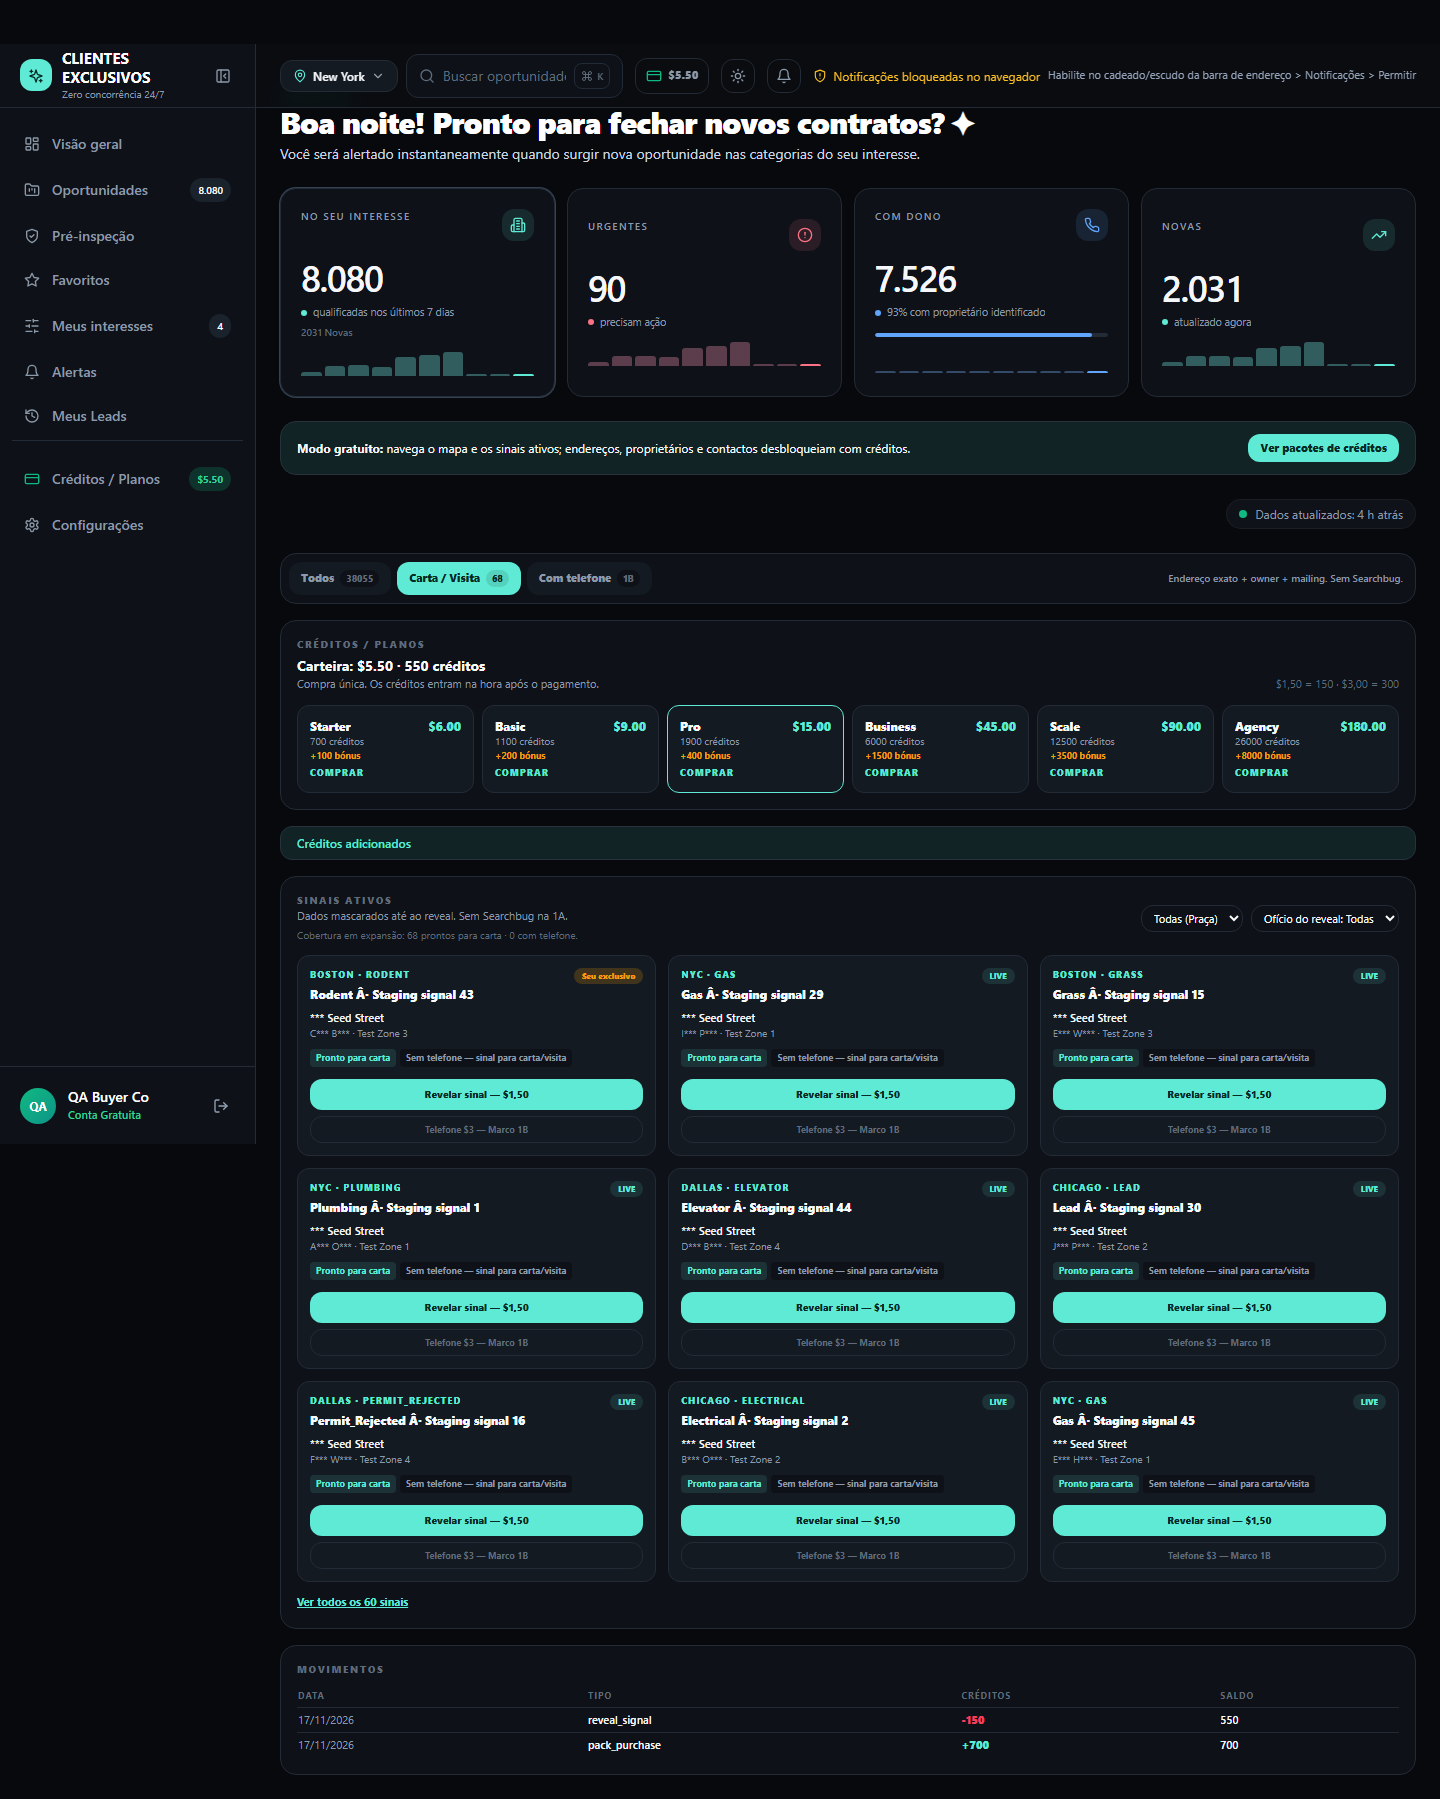
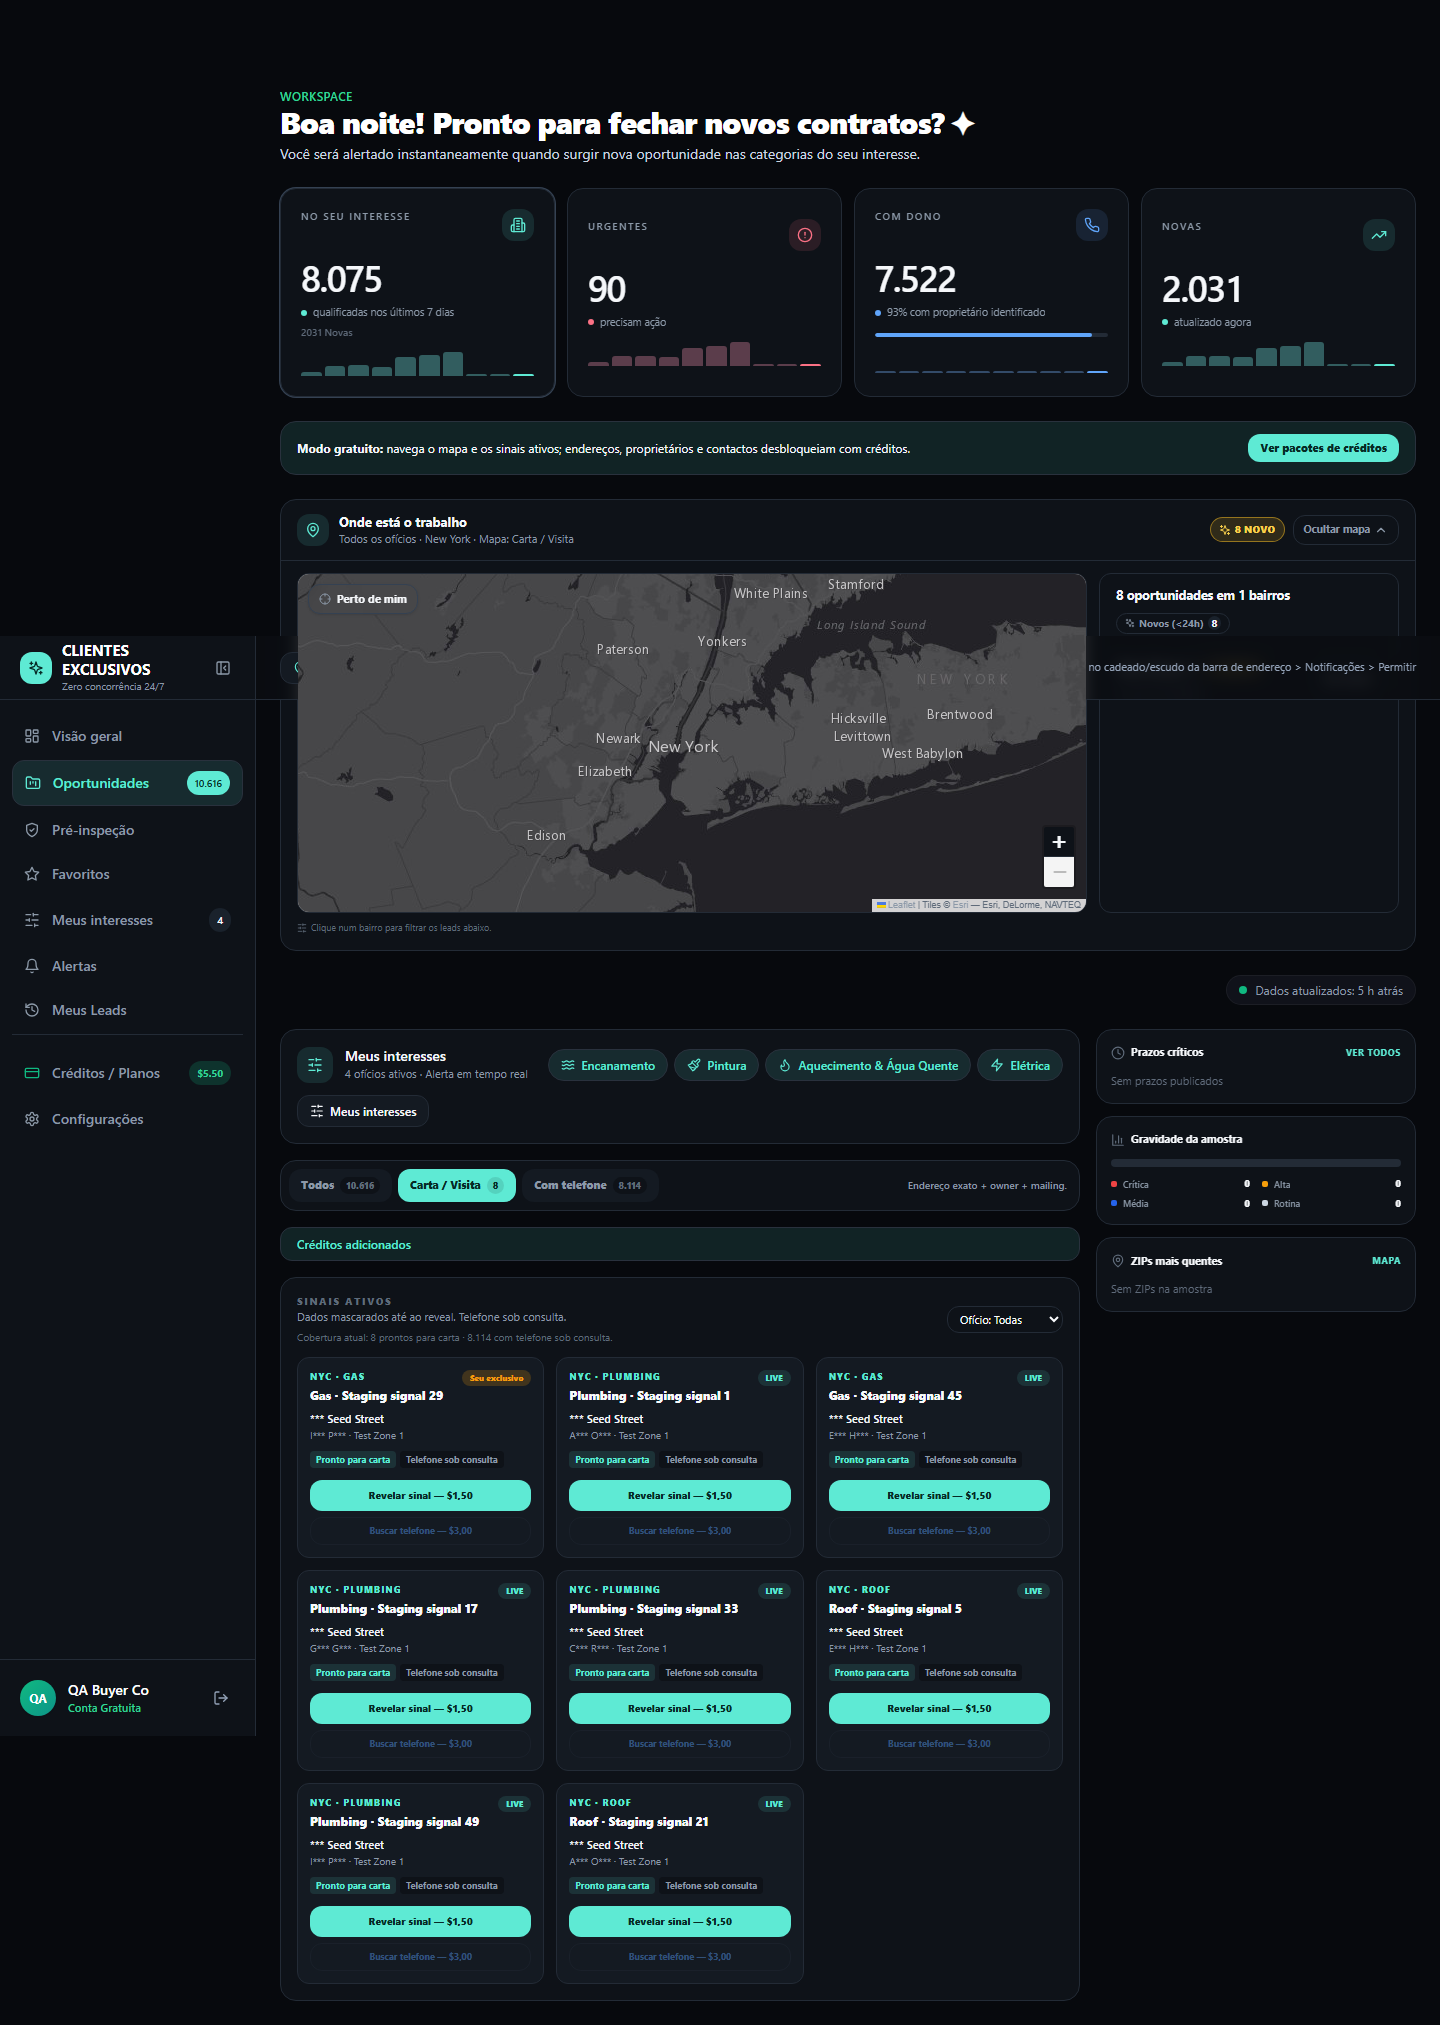
docs(marco-1a): record on-demand phone and wallet modal audit

diff --git a/reports/marco-1a/README.md b/reports/marco-1a/README.md
@@ -17,28 +17,28 @@
 - Reveal de sinal **$1,50** com endereço exato, owner oficial e `mailing_address`; **sem Searchbug**.
 - Exclusividade **7 dias por ofício**; o mesmo endereço pode ser vendido a outros ofícios.
 - Paywall: “Revelar” com saldo insuficiente (402) abre uma **modal elegante sobre o dashboard** (pack $6–$180, carteira atual e valor necessário). A compra dentro da modal credita a carteira e **desbloqueia o lead automaticamente**, sem sair do painel.
-- Telefone **$3** bloqueado na 1A (Marco 1B).
+- Telefone **$3** on-demand (Searchbug) implementado no fluxo de créditos: a aba lista elegíveis e a consulta só acontece após confirmação de saldo. Em staging, sem chave Searchbug, a consulta devolve “indisponível” sem cobrar.
 - `/pt/credits` deixou de ser página autónoma: redireciona para `/{locale}/dashboard?tab=credits`.
 - Gate por token/password no staging (`STAGING_GATE=1` + `STAGING_ACCESS_TOKEN`), cookie httpOnly.
 - Seed sintético: **50 leads** nas 4 praças + contas `qa-buyer+staging@magicleads.app` / `qa-free+staging@magicleads.app` (password `dev-demo-only`).
-- Nenhum dado de produção usado no seed; nenhuma chamada Searchbug/Telnyx.
+- Nenhum dado de produção usado no seed; nenhuma chamada Searchbug/Telnyx durante a auditoria.
 
 ## Segmentação por prontidão (implementada)
 
-- **Flags materializadas no núcleo** (`backend/services/db.py`): `signal_ready` (owner + mailing + sinal) e `phone_ready` (telefone verificado), com backfill único (`schema_meta.readiness_v1`), triggers de escrita e índices parciais (`idx_leads_letter_ready`, `idx_leads_phone_ready`, variantes cidade/ofício).
+- **Flags materializadas no núcleo** (`backend/services/db.py`): `signal_ready` (owner + mailing + sinal), `phone_eligible` (owner + endereço + sinal, para consulta on-demand) e `phone_ready` (telefone já verificado), com backfill único (`schema_meta.readiness_v2`), triggers de escrita e índices parciais (`idx_leads_letter_ready`, `idx_leads_phone_eligible`, `idx_leads_phone_ready`, variantes cidade/ofício).
 - **API**: `readiness=all|letter|phone` em `/api/leads/today`, `/api/leads`, `/api/leads/neighborhoods` e `/api/credits/leads`; `counts` calculado no mesmo filtro base.
 - **UI de dois níveis** no dashboard: linha primária **Todos / Carta-Visita / Com telefone**; linha secundária de origem (Reativos/Preventivos/Obras) + cidade/ofício/busca/filtros.
-- **Telefone visível mas bloqueado** no 1A (`1B`), apenas `phone_ready=1`; Carta e Telefone podem sobrepor-se no mesmo lead.
+- **Telefone on-demand**: a aba “Com telefone” lista `phone_eligible=1` (owner + endereço, mesmo sem telefone guardado) e/ou `phone_ready=1`; a consulta Searchbug só corre depois de confirmar saldo e nunca antes do clique. Carta e Telefone podem sobrepor-se no mesmo lead.
 - **Mapa segue a aba ativa** (`Mapa: Carta / Visita`) e os counts acompanham o filtro.
-- **Copy honesta**: “Pronto para carta” (sem afirmar mailing auditado) e nota de cobertura (“Cobertura em expansão: N prontos para carta · M com telefone”).
-- **Staging atual**: 68 prontos para carta, 0 com telefone; mapa NYC em Carta mostra 8 (janela de 7 dias).
+- **Copy limpa**: “Pronto para carta” e “Telefone sob consulta”; sem “Marco 1B”, “Sem Searchbug” ou “cobertura 0 com telefone”.
+- **Staging atual (NYC, 7 dias)**: 8 prontos para carta e 8.114 elegíveis para telefone; mapa e aba Carta mostram os mesmos 8.
 - **Seed** passa a preencher `signal_type`/`signal_status` e timestamps completos, para os triggers de prontidão e a serialização da API.
 
 ## Fluxo validado (dashboard)
 
 1. Login gratuito → `/pt/dashboard` com o layout oficial e sidebar completo.
 2. Aba **Oportunidades** → mapa + sinais mascarados (`*** Seed Street`, owner mascarado).
-3. Sidebar **Créditos / Planos** → carteira + 6 pacotes + sinais no dashboard.
+3. Sidebar **Créditos / Planos** → **modal de carteira** com pacotes e movimentos (o feed não mostra packs/ledger).
 4. Pack Starter $6 → Checkout mock → webhook duplicado (idempotente) → **$7.00** no header.
 5. **Revelar sinal — $1,50** → modal com endereço/owner/mailing → header passa a **$5.50**.
 6. Conta sem saldo → “Revelar” abre a **modal de créditos** sobre o dashboard; a compra dentro da modal (mock) credita a carteira e desbloqueia o lead no mesmo fluxo.
@@ -53,7 +53,7 @@ Capturas em `reports/marco-1a/staging/`:
 | `01-gate.png` | Staging protegido: redirect para token |
 | `02-dashboard-freemium.png` | Login gratuito dentro do dashboard oficial |
 | `03-map-masked-signals.png` | Aba Oportunidades: mapa + sinais mascarados |
-| `04-credits-packs.png` | “Créditos / Planos” aberto no dashboard, pacotes $6–$180 |
+| `04-wallet-modal.png` | Carteira / Planos em modal: pacotes $6–$180 e movimentos |
 | `05-webhook-idempotent.png` | Webhook 1 aplicado + Webhook 2 duplicado |
 | `06-wallet-700-dashboard.png` | Carteira do header a $7.00 após pagamento |
 | `07-reveal-dashboard.png` | Reveal $1,50: endereço + owner + mailing + exclusividade |
@@ -65,7 +65,7 @@ Capturas em `reports/marco-1a/staging/`:
 ## Resultado do audit de staging
 
 ```
-RESULT ALL PASS (20/20)
+RESULT ALL PASS (26/26)
 ```
 
 - Staging gate redirects
@@ -75,12 +75,18 @@ RESULT ALL PASS (20/20)
 - Freemium keeps dashboard + masked signals
 - Map follows active readiness
 - Readiness tabs visible (Todos / Carta / Telefone)
-- Phone tab locked for Milestone 1B
-- Sidebar opens credit packs in dashboard
+- Phone tab shows eligible leads (not zero)
+- No internal phone jargon in UI
+- Sidebar count matches Todos tab
+- Card titles use UTF-8 (no Â·)
+- Sidebar opens wallet modal with packs
+- Wallet modal includes movements
+- Feed no longer shows packs/ledger
 - Header wallet visible
 - Mock checkout created
 - Webhook idempotency
 - Credits appear in header wallet ($7.00)
+- Wallet ledger shows pack purchase
 - Signal unlocks full address + owner + mailing
 - Wallet debited $1.50 after reveal ($5.50)
 - Insufficient balance opens elegant paywall modal
@@ -107,7 +113,7 @@ O webhook duplicado não altera o saldo: `stripe_events` único + `credit_purcha
 
 ## Testes e qualidade
 
-- Backend: **1708 passed, 1 skipped** (4 novos testes em `tests/test_credits.py`).
+- Backend: **1709 passed, 1 skipped** (5 testes em `tests/test_credits.py`, incluindo telefone on-demand).
 - Ruff: **All checks passed**.
 - Frontend: `tsc --noEmit` limpo; **111 testes / 14 ficheiros**; ESLint **0 erros**.
 - `next build`: concluído com sucesso, incluindo `/[locale]/dashboard`, `/[locale]/credits` (redirect), `/[locale]/staging-login` e `/api/staging-login`.
@@ -126,7 +132,7 @@ O webhook duplicado não altera o saldo: `stripe_events` único + `credit_purcha
 - Frontend: **`https://magic-leads-staging-fabio-dev2.vercel.app`** (alias estável do preview aprovado). O preview antigo `magic-leads-frontend-final-gv537n0ha-fabio-dev2.vercel.app` está **obsoleto** e já não deve ser usado.
 - Seed: `backend/scripts/seed_staging_credits.py` executado no staging; **50 leads sintéticos** e contas de teste.
 - Proteção: **Vercel Deployment Protection** + **token gate** da app (`STAGING_GATE=1`); credenciais partilhadas fora de banda.
-- **Audit de staging: ALL PASS (20/20)** — dashboard oficial, mapa/sinais mascarados, abas de prontidão, telefone bloqueado 1B, pacotes, webhook idempotente, carteira $7.00, reveal $1,50, saldo $5.50, modal de paywall e desbloqueio automático após compra na modal.
+- **Audit de staging: ALL PASS (26/26)** — dashboard oficial, mapa/sinais mascarados, abas de prontidão, telefone elegível (8.114), contadores sincronizados, carteira modal com packs/movimentos, webhook idempotente, carteira $7.00, reveal $1,50, saldo $5.50 e desbloqueio automático após compra na modal.
 - `CREDITS_MOCK=1` enquanto a chave `sk_test_` não está configurada; o caminho Stripe real está implementado e pronto a ativar.
 - O link e os tokens não ficam no repositório; são partilhados no canal seguro.
 

diff --git a/reports/marco-1a/LEAD-READINESS-SEGMENTATION.md b/reports/marco-1a/LEAD-READINESS-SEGMENTATION.md
@@ -485,24 +485,29 @@ Isto mantém o layout limpo, evita 7 pills e prepara o 1B sem refazer a interfac
 Implementado em `feat/credits-pay-as-you-go` e publicado no staging:
 
 - **`backend/services/db.py`**
-  - `signal_ready` / `phone_ready` materializados no núcleo;
-  - backfill único (`schema_meta.readiness_v1`) + triggers em `owner_name`, `owner_phone`, `phone_verified`, `mailing_address`, etc.;
-  - índices parciais `idx_leads_letter_ready`, `idx_leads_letter_city_trade`, `idx_leads_phone_ready`, `idx_leads_phone_city_trade`;
+  - `signal_ready` / `phone_eligible` / `phone_ready` materializados no núcleo;
+  - backfill único (`schema_meta.readiness_v2`) + triggers em `owner_name`, `owner_phone`, `phone_verified`, `mailing_address`, etc.;
+  - índices parciais `idx_leads_letter_ready`, `idx_leads_letter_city_trade`, `idx_leads_phone_eligible`, `idx_leads_phone_eligible_city_trade`, `idx_leads_phone_ready`, `idx_leads_phone_city_trade`;
   - `readiness` em `get_leads_feed` / `get_leads_geo_summary` e `count_leads_by_readiness`.
 - **API**
   - `readiness=all|letter|phone` em `/api/leads/today`, `/api/leads`, `/api/leads/neighborhoods` e `/api/credits/leads`;
-  - `counts: { all, letter, phone }` no mesmo filtro base;
-  - telefone exposto apenas como `phone_ready=1` (sem elegíveis).
+  - `phone` = `phone_eligible=1 OR phone_ready=1` (elegíveis para consulta on-demand, não apenas telefones já guardados);
+  - `counts: { all, letter, phone }` no mesmo filtro base (cidade/ofício + janela de 7 dias);
+  - `POST /api/credits/reveal-phone`: valida saldo primeiro, consulta a Searchbug on-demand, cobra $3 só em caso de sucesso e é idempotente.
 - **UI**
-  - linha primária **Todos / Carta-Visita / Com telefone** (telefone com selo `1B`);
+  - linha primária **Todos / Carta-Visita / Com telefone** (telefone com contagem de elegíveis, sem `1B`);
   - linha secundária de origem/filtros;
-  - badges “Pronto para carta” e “Telefone verificado” nos cartões;
-  - estados vazios dedicados e nota de cobertura;
-  - mapa segue a aba ativa (`Mapa: Carta / Visita`).
-- **Staging**: 68 prontos para carta, 0 com telefone; audit **20/20**.
+  - badges “Pronto para carta”, “Telefone sob consulta” e “Telefone verificado” nos cartões;
+  - estados vazios dedicados e nota de cobertura sem jargão;
+  - mapa segue a aba ativa (`Mapa: Carta / Visita`);
+  - carteira e movimentos vivem apenas na **modal** aberta pelo chip do header, menu lateral ou paywall; o feed não tem packs/ledger.
+- **Staging**: 8 prontos para carta e 8.114 elegíveis para telefone (NYC, 7 dias); audit **26/26**.
+- **Staging sem chave Searchbug**: a consulta devolve uma mensagem limpa de indisponibilidade e não cobra; o fluxo fica pronto para a chave.
 
 ### Desvios face ao parecer
 
 1. O predicado institucional na prontidão usa `institutional_owner_name_where` (SQL partilhado) em vez da função Python `is_institutional_name`. Motivo: os triggers correm em **qualquer** conexão SQLite (seed, scripts, testes) e funções custom não existem nessas conexões. A aproximação SQL cobre prefixos + tokens fortes.
 2. `signal_ready` inclui `mailing_address`; por isso um lead sem mailing devolve `signal_not_ready` no reveal (antes a ordem era `mailing_missing`). O teste de créditos foi atualizado para a nova semântica.
 3. `readiness=all` é uma vista, não um bucket exclusivo: Carta e Telefone podem sobrepor-se.
+4. A aba Telefone deixou de estar bloqueada com `1B`: passou a listar `phone_eligible=1` e o reveal $3 é on-demand. Sem chave Searchbug em staging, a consulta devolve “indisponível” sem cobrar.
+5. O feed de créditos passou a usar a janela de 7 dias do dashboard, para que `Todos`, `Carta`, o mapa e o badge do menu mostrem exatamente o mesmo universo.
